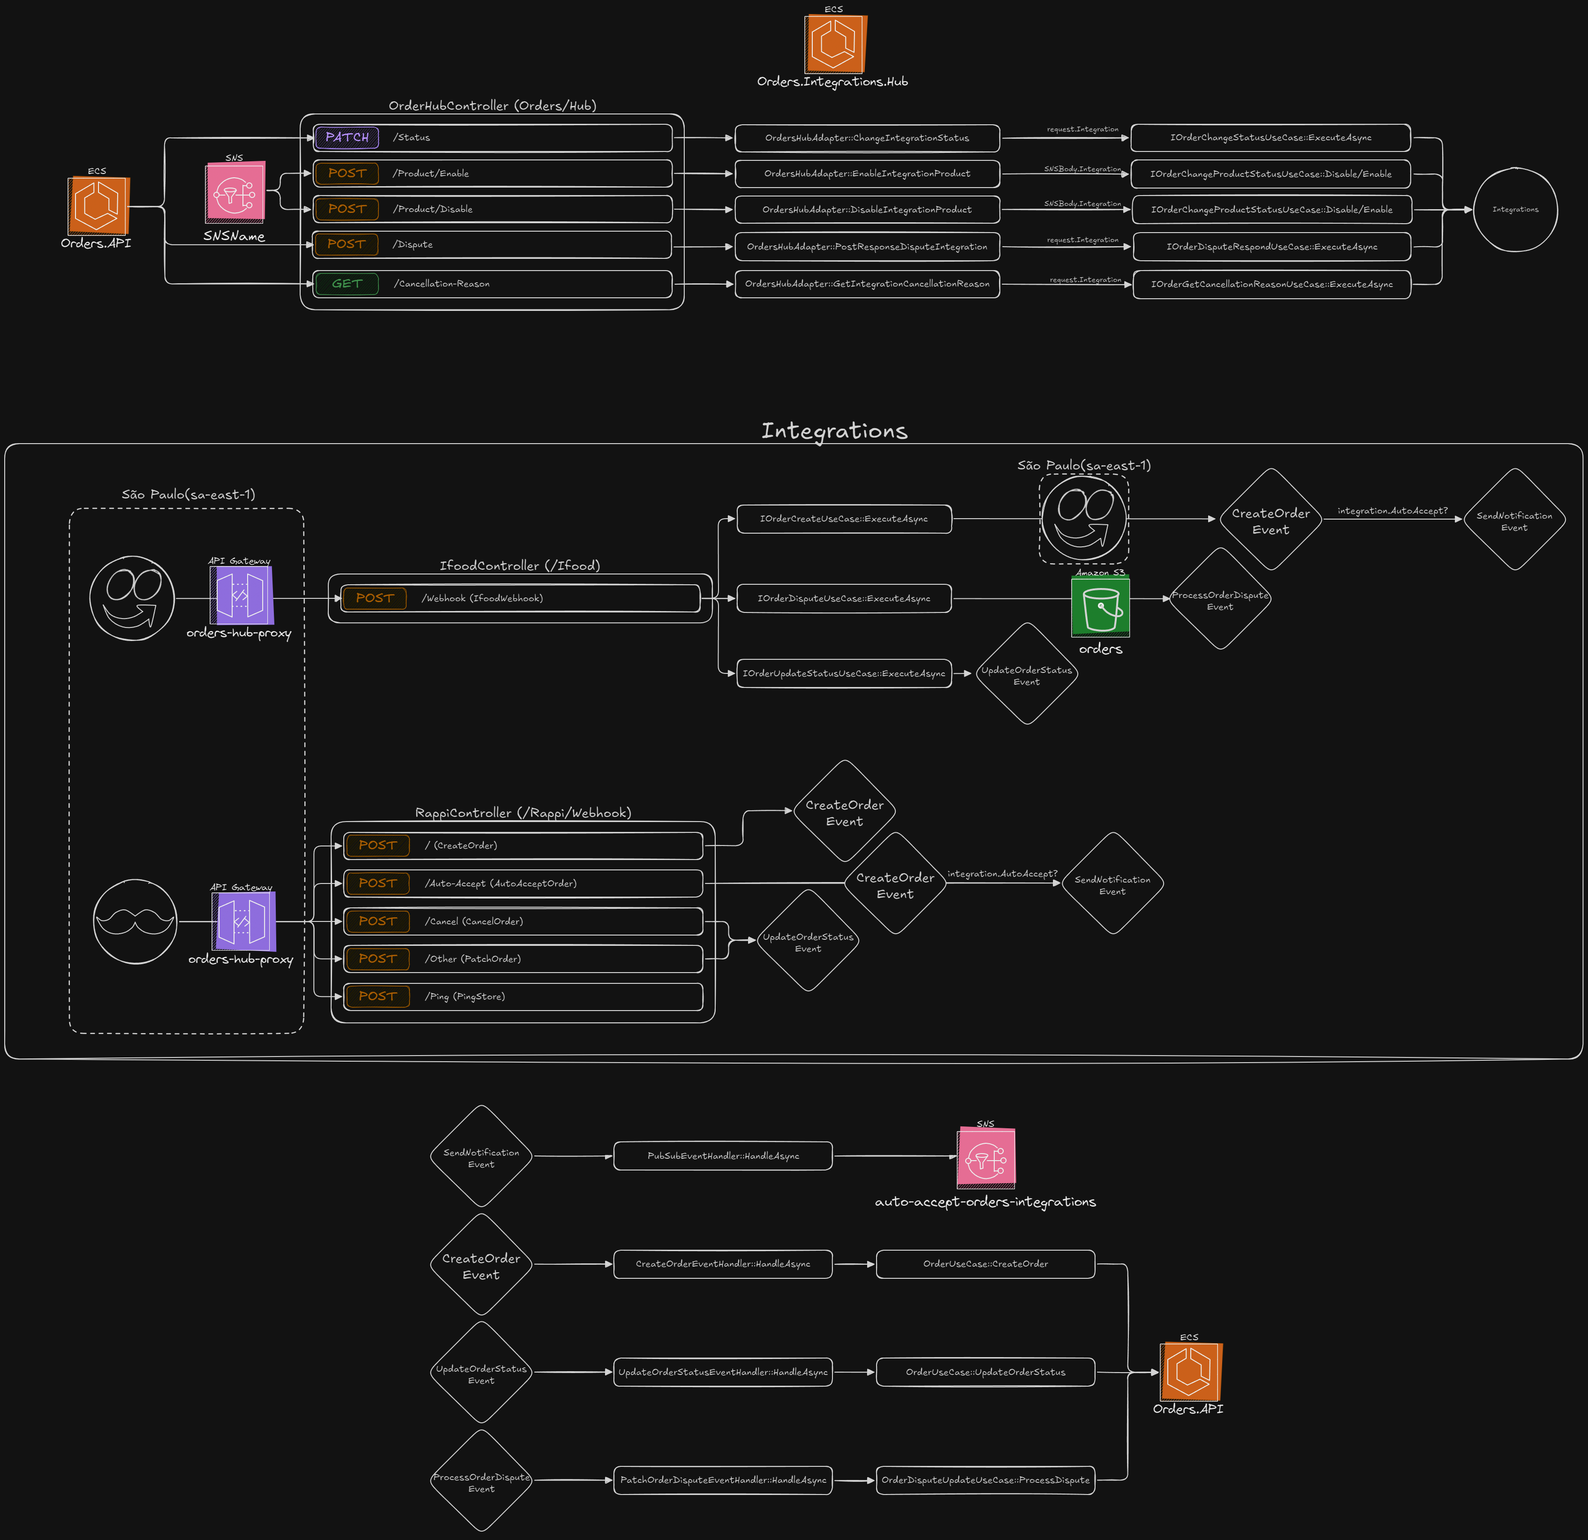
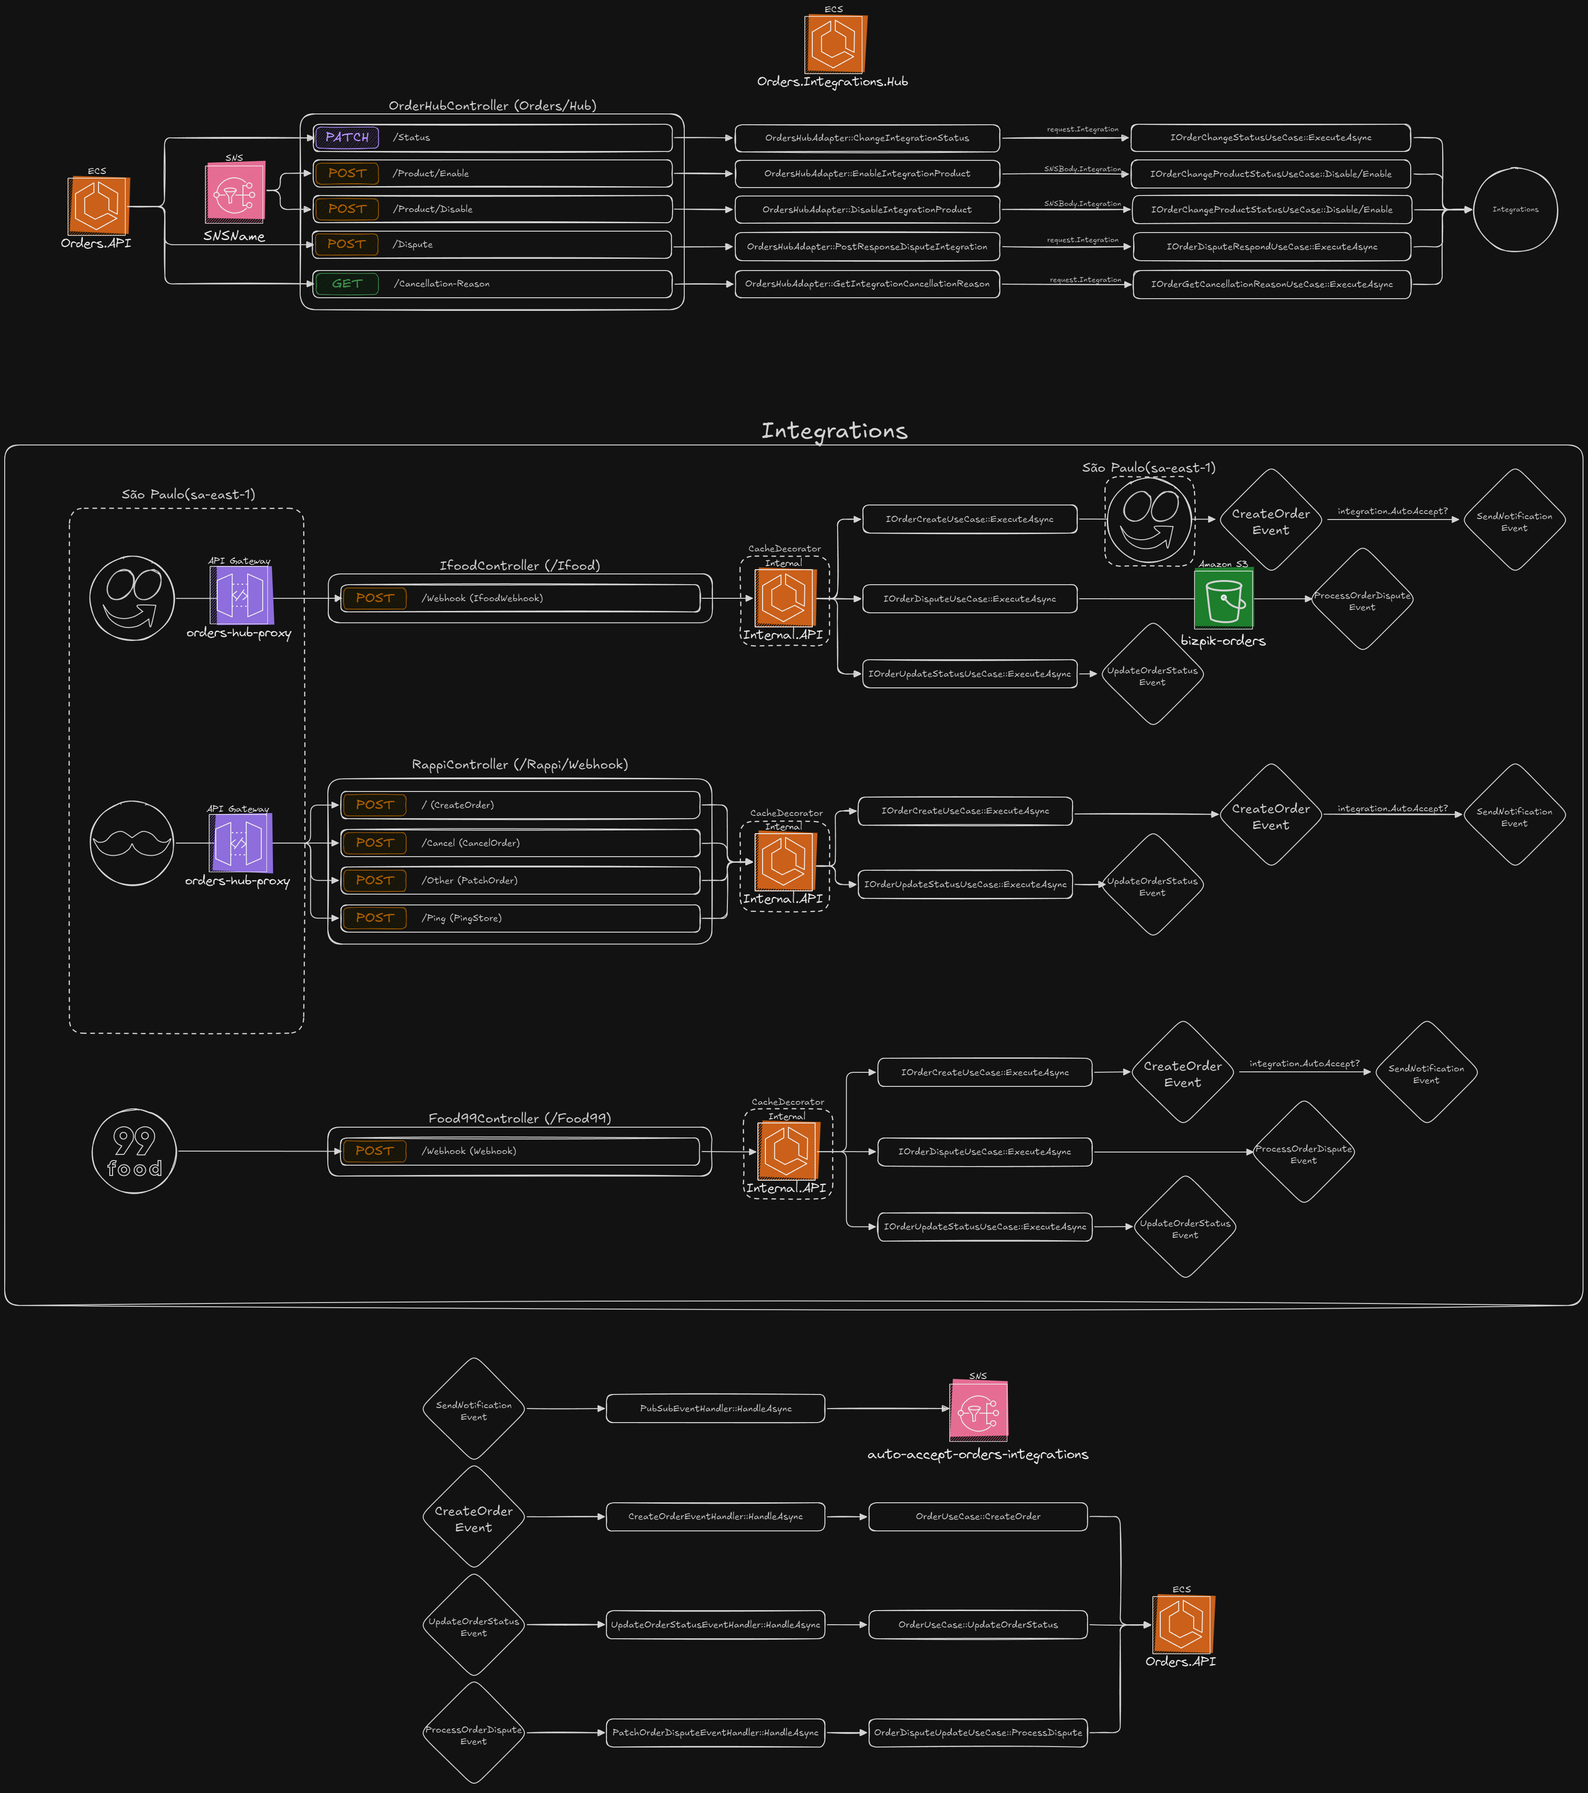
[FEAT] Update docs readme.md and the architecture diagram

diff --git a/README.md b/README.md
@@ -1,25 +1,31 @@
 # Integrations Hub for Orders
 
-**`Orders.Integrations.Hub`** is a modular and extensible integration hub built with **.NET 9**, designed to receive and standardize external orders from platforms like iFood, Rappi, and more. It forwards these orders to an internal system using a clean and decoupled architecture.
+**`Orders.Integrations.Hub`** is a modular and extensible integration hub built with **.NET 9**, designed to receive and 
+standardize external orders from platforms like iFood, Rappi, **99Food**, and more. It forwards these orders to an internal 
+system using a clean and decoupled architecture.
 
 ## 🔗 Summary
 
- - [🔭 Overview](#-overview)
- - [🧩 Architecture Diagram](#-architecture-diagram)
- - [📁 Project Structure](#-project-structure)
- - [🧱 Integration Architecture](#-integration-architecture)
-   - [➕ Adding a New Integration](#-adding-a-new-integration)
- - [🔄 Communication Flow](#-communication-flow)
- - [🧪 Testing](#-testing)
- - [🧪 Observability & Monitoring](#-observability--monitoring)
- - [🧰 Local Development](#-local-development)
-   - [🐳 With Docker Compose](#-with-docker-compose)
-   - [☁ Infrastructure](#-infrastructure)
-   - [🔧 Configuration](#-configuration)
- - [🔧 Tech Stack](#-tech-stack)
- - [🧠 Future Improvements](#-future-improvements)
- - [🤝 Contributing](#-contributing)
- - [📄 License](#-license)
+- [🔭 Overview](#-overview)
+- [🧩 Architecture Diagram](#-architecture-diagram)
+- [📁 Project Structure](#-project-structure)
+- [🧱 Integration Architecture](#-integration-architecture)
+    - [➕ Adding a New Integration](#-adding-a-new-integration)
+    - [🧩 Use Cases Overview](#-use-cases-overview)
+    - [🏪 Multi-Tenant Support](#-multi-tenant-support)
+    - [🏗 Centralized Credentials Mode](#-centralized-credentials-mode)
+    - [🧾 Per-Integration JSON Serialization](#-per-integration-json-serialization)
+- [🔄 Communication Flow](#-communication-flow)
+- [🧪 Testing](#-testing)
+- [🧪 Observability & Monitoring](#-observability--monitoring)
+- [🧰 Local Development](#-local-development)
+    - [🐳 With Docker Compose](#-with-docker-compose)
+    - [☁ Infrastructure](#-infrastructure)
+    - [🔧 Configuration](#-configuration)
+- [🔧 Tech Stack](#-tech-stack)
+- [🧠 Future Improvements](#-future-improvements)
+- [🤝 Contributing](#-contributing)
+- [📄 License](#-license)
 
 ---
 
@@ -27,11 +33,12 @@
 
 This project serves as a central entry point for receiving and processing external orders. It provides:
 
-- 🧱 **Based on Hexagonal Architecture (Ports & Adapters)**
 - 🌐 **Minimal APIs**
 - 📃 **Scalar** (OpenAPI alternative) for documentation
-- 🔄 **Event-driven architecture** for internal communication using **FastEndpoints**
-- 🔌 **Pluggable integrations** (e.g., Rappi, iFood)
+- 🔄 **Event-driven** internal communication using **FastEndpoints**
+- 🔌 **Pluggable integrations** (e.g., Rappi, iFood, **99Food**)
+- 🏪 **Multi-tenant support** (per-merchant credentials via internal API + caching)
+- 🧾 **Custom JSON serialization per integration** (no `JsonPropertyName` attributes)
 - 📦 **Memory and Distributed Caching**
 - 📊 **Observability** with OpenTelemetry
 - ☁ **Infrastructure as Code** with Terraform and LocalStack
@@ -47,16 +54,16 @@ This project serves as a central entry point for receiving and processing extern
 
 Key elements:
 - Inbound integrations via Webhooks or Pulling
-- Each integration (iFood, Rappi, etc.) has isolated flows
+- Each integration (**iFood**, **Rappi**, **99Food**, etc.) has isolated flows
 - Events are created and consumed asynchronously
 - All inbound calls use the `UseCases.In` contracts to reach internal services (e.g., Orders API)
-- All outbound calls use the `UseCases.Out` contracts to reach external services (e.g., Orders API)
+- All outbound calls use the `UseCases.Out` contracts to reach external services (e.g, Integration API)
 
 ---
 
 ## 📁 Project Structure
 
-```
+```text
 Orders.Integrations.Hub/
 ├── Src/
 │   └── Orders.Integrations.Hub/
@@ -65,13 +72,16 @@ Orders.Integrations.Hub/
 │       │   ├── Application/    # Middlewares, Extensions, Use Cases
 │       │   └── Domain/         # Contracts, Entities, Value Objects
 │       │
-│       └── Integrations/       # Modular integrations: Ifood, Rappi, etc.
-│           └── Common/         # Common 
+│       └── Integrations/       # Modular integrations: Ifood, Rappi, 99Food, etc.
+│           ├── Common/         # Shared utilities across integrations
+│           ├── IFood/          # IFood integration
+│           ├── Rappi/          # Rappi integration
+│           └── Food99/         # 99Food integration
 │
 ├── Test/
 │   ├── Orders.Integrations.Hub.UnitTests/
 │   └── Orders.Integrations.Hub.ArchTests/
-│    
+│
 ├── Infra/
 │   └── terraform/              # Infrastructure code using Terraform
 │
@@ -83,37 +93,146 @@ Orders.Integrations.Hub/
 
 ## 🧱 Integration Architecture
 
-Each integration is encapsulated in its own folder and follows its own mini-architecture. This makes it easy to add or evolve integrations independently.
+Each integration is encapsulated in its own folder and follows its own mini-architecture. This makes it easy to add or 
+evolve integrations independently.
 
 ### ➕ Adding a New Integration
-1. Create a folder under `Integrations/[NewPartner]`
-2. Implement the architecture that you prefer
-3. Register dependencies in `[Integration]DependencyInjection.cs`
+1. Create a folder under `Integrations/[NewPartner]`.
+2. Implement the architecture that you prefer (adapters, use cases, clients).
+3. Register dependencies in `[Integration]DependencyInjection.cs`.
+4. (Optional) Provide a custom JSON serializer (see below).
+5. (Optional/Recommended Way) Implement the Use Cases for your integration
+---
+
+### 🧩 Use Cases Overview
+
+⚠ **Note:** All use cases are optional.  
+Implement only the ones supported or required by the partner integration.
+
+| Use Case                            | Direction | When to use                                                                                                |
+|-------------------------------------|-----------|------------------------------------------------------------------------------------------------------------|
+| `IOrderCreateUseCase`               | IN        | Triggered when a new order is received from the integration and must be sent to the core.                  |
+| `IOrderDisputeUseCase`              | IN        | Handles disputes (started/finished) from the integration and forwards them to the core.                    |
+| `IOrderUpdateUseCase`               | IN        | Used when an order changes its status in the integration and the core must be updated.                     |
+| `IOrderChangeProductStatusUseCase`  | OUT       | Used when the core needs to enable/disable products in the partner system (e.g. stock, catalog).           |
+| `IOrderChangeStatusUseCase`         | OUT       | Sends status changes made by the merchant in the core to the integration (e.g. confirm, preparing, cancel).|
+| `IOrderDisputeRespondUseCase`       | OUT       | Sends the merchant’s response to a dispute back to the integration.                                        |
+| `IOrderGetCancellationReasonUseCase`| OUT       | Retrieves cancellation reasons supported by the integration (via API or enums).                            |
+
+📌 **Summary**
+- **IN** → Events coming **from the integration into the Hub** (orders, disputes, updates).
+- **OUT** → Events going **from the Hub to the integration** (status changes, catalog updates, disputes, cancellations).
+
+### 🏪 Multi-Tenant Support
+
+Some platforms (like **iFood**, **Rappi**, **99Food**) require **per-merchant credentials** (ClientId, ClientSecret, 
+StoreId/MerchantId, etc.).  
+This hub supports **multi-tenancy** through a scoped `IntegrationContext`:
+
+- Each HTTP request creates its own **scoped `IntegrationContext`**.
+- The context fetches integration metadata (client credentials, merchant/store identifiers, base URLs, etc.) from an **internal API**.
+- A **cache decorator** prevents fetching on every request.
+
+**Example (iFood):**
+```csharp
+integrationContext.Integration = (await internalClient.GetIntegrationByExternalId(request.MerchantId)).ResolveIFood();
+
+integrationContext.MerchantId = request.MerchantId;
+
+string secret = integrationContext.Integration.ClientSecret;
+```
+
+This lets the hub adapt dynamically per merchant instead of relying on static environment variables.
+
+---
+
+### 🏗 Centralized Credentials Mode
+
+Not all partners require per-merchant credentials, or you have a centralizer. For those cases, you can **remove the 
+`IntegrationContext` dependency** for that integration and bind credentials via environment variables.
+
+**How to switch an integration to centralized mode:**
+
+1. **Remove context usage**: Stop injecting/using `IntegrationContext` in that integration’s handlers/clients.
+2. **Bind env vars**: Configure static credentials in `.env` and map them to typed options:
+   ```ini
+   INTEGRATIONS__PARTNER__CLIENT__ID=your-client-id
+   INTEGRATIONS__PARTNER__CLIENT__SECRET=your-client-secret
+   INTEGRATIONS__PARTNER__ENDPOINT__BASE_URL=https://api.partner.com
+   ```
+3. **Register options & client**: Inject the options directly into the integration services (no lookup/caching required).
+4. **Validate at startup**: Fail fast if required keys are missing when centralized mode is chosen.
+
+> ✅ Use **multi-tenant** when each merchant has its own credentials.  
+> ✅ Use **centralized** when one credential set is shared across all merchants.
+
+---
+
+### 🧾 Per-Integration JSON Serialization
+
+Each integration owns a **custom JSON serializer** (for request/response models), injected via DI using **keyed services**:
+
+Implement the interface `ICustomJsonSerializer` for the integration that you want with all configurations
+
+```csharp
+public class RappiJsonSerializer : ICustomJsonSerializer
+{
+    private static readonly JsonSerializerOptions Options = new() {
+        PropertyNamingPolicy = JsonNamingPolicy.SnakeCaseLower,
+        DictionaryKeyPolicy = JsonNamingPolicy.SnakeCaseLower,
+        PropertyNameCaseInsensitive = true,
+        Converters = { new JsonStringEnumConverter(JsonNamingPolicy.SnakeCaseUpper) }
+    };
+
+    public string Serialize<T>(T value) => JsonSerializer.Serialize(value, Options);
+
+    public T? Deserialize<T>(string value) => JsonSerializer.Deserialize<T>(value, Options);
+}
+```
+
+Then in the DI you just need to add the service now with the integration key
+
+```csharp
+services.AddKeyedSingleton<ICustomJsonSerializer, RappiJsonSerializer>(OrderIntegration.RAPPI);
+```
+
+Now just use it in your integration
+
+```csharp
+public IResult Handle(
+    [FromKeyedServices(OrderIntegration.RAPPI)] ICustomJsonSerializer jsonSerializer,
+    /* other deps */
+) {
+    // Use the serializer to parse/format payloads for this integration
+}
+```
+
+This decouples payload shapes per partner and avoids leaking partner-specific casing/naming into shared domain models.
 
 ---
 
 ## 🔄 Communication Flow
 
-- External platforms (iFood, Rappi, etc.) receive data via webhooks or pulling
-- Requests hit the corresponding controller or endpoint (e.g., `IfoodController`)
-- Adapter translates the request into internal format
-- UseCases send orders via the `UseCases.Out` contracts to the internal Orders system
-- Events are dispatched using `Core.Domain.ValueObjects.Events`
+- External platforms (**iFood**, **Rappi**, **99Food**, etc.) send data via webhooks or pulling.
+- Requests hit the corresponding endpoint/controller (e.g., `IfoodController`).
+- Adapter translates the request into the internal format.
+- Use cases send orders via the `UseCases.Out` contracts to the internal Orders system.
+- Events are dispatched using `Core.Domain.ValueObjects.Events`.
 
 ---
 
 ## 🧪 Testing
 
-- ✅ **Unit Tests** for application logic
-- 🧱 **Architecture Tests** using ArchUnit.NET to enforce domain boundaries and modularity
+- ✅ **Unit Tests** for application logic.
+- 🧱 **Architecture Tests** using ArchUnit.NET to enforce domain boundaries and modularity.
 
 ---
 
 ## 🧪 Observability & Monitoring
 
-- **OpenTelemetry**: Tracing, logging, and metrics
-- **Grafana**: Dashboards to visualize telemetry data
-- **Aspire**: For service discovery and metrics aggregation
+- **OpenTelemetry**: Tracing, logging, and metrics.
+- **Grafana**: Dashboards to visualize telemetry data.
+- **Aspire**: Service discovery and metrics aggregation.
 
 ---
 
@@ -147,24 +266,31 @@ Provisioned modules:
 
 ### 🔧 Configuration
 
-To configure the environment, copy the `.env.example` to `.env` file and fill in the required values:
+Copy the example env file and fill in the required values:
 
 ```bash
 cp .env.example .env
 ```
 
 #### 🔑 Environment Variables Overview
-| Category   | Variables                                                                          |
-|------------|------------------------------------------------------------------------------------|
-| Internal   | 	ORDERS__ENDPOINT__BASE_URL — Internal Orders API endpoint                         | 
-| IFood	     |  INTEGRATIONS__IFOOD__CLIENT__ID, CLIENT__SECRET, ENDPOINT__BASE_URL, CACHE__KEY   | 
-| Rappi	     |  INTEGRATIONS__RAPPI__CLIENT__ID, SECRET, AUDIENCE, ENDPOINT__BASE_URL, etc.       | 
-| Cache	     |  MEMCACHED__ADDRESS, MEMCACHED__PORT                                               | 
-| Pub/Sub    | 	PUB_SUB__TOPICS__ACCEPT_ORDER, IS_LOCAL                                           | 
-| Storage    | 	OBJECT_STORAGE__BUCKET__NAME                                                      | 
-| LocalStack | 	LOCALSTACK__AWS__IS_LOCALSTACK, ENDPOINT_URL                                      | 
-| AWS        | 	AWS_PROFILE, AWS_REGION                                                           | 
-| Telemetry  | 	OTEL_SERVICE_NAME, OTEL_EXPORTER_OTLP_ENDPOINT                                    | 
+
+> The exact keys used depend on whether an integration is **multi-tenant** or **centralized**.  
+> Multi-tenant integrations fetch credentials from the internal API (and mostly need base URLs + cache keys).  
+> Centralized integrations read credentials directly from env vars.
+
+| Category   | Variables (examples)                                                                                                                                                                                |
+|------------|-----------------------------------------------------------------------------------------------------------------------------------------------------------------------------------------------------|
+| Internal   | `ORDERS__ENDPOINT__BASE_URL` — Internal Orders API endpoint                                                                                                                                         |
+| Internal   | `INTERNAL__ENDPOINT__BASE_URL` — Internal API endpoint                                                                                                                                              |
+| iFood      | `INTEGRATIONS__IFOOD__ENDPOINT__BASE_URL`, `INTEGRATIONS__IFOOD__CACHE__KEY`, <br>`INTEGRATIONS__IFOOD__CLIENT__ID`, `INTEGRATIONS__IFOOD__CLIENT__SECRET` *(centralized)*                          |
+| Rappi      | `INTEGRATIONS__RAPPI__ENDPOINT__BASE_URL`, `INTEGRATIONS__RAPPI__CACHE__KEY`, <br>`INTEGRATIONS__RAPPI__CLIENT__ID`, `INTEGRATIONS__RAPPI__SECRET`, `INTEGRATIONS__RAPPI__AUDIENCE` *(centralized)* |
+| 99Food     | `INTEGRATIONS__FOOD99__ENDPOINT__BASE_URL`, `INTEGRATIONS__FOOD99__CACHE__KEY`, <br>`INTEGRATIONS__FOOD99__CLIENT__ID`, `INTEGRATIONS__FOOD99__CLIENT__SECRET` *(centralized)*                      |
+| Cache      | `MEMCACHED__ADDRESS`, `MEMCACHED__PORT` *(Distributed Cache)*                                                                                                                                       |
+| Pub/Sub    | `PUB_SUB__TOPICS__ACCEPT_ORDER`, `PUB_SUB__IS_LOCAL`                                                                                                                                                |
+| Storage    | `OBJECT_STORAGE__BUCKET__NAME`                                                                                                                                                                      |
+| LocalStack | `LOCALSTACK__AWS__IS_LOCALSTACK`, `LOCALSTACK__ENDPOINT_URL`                                                                                                                                        |
+| AWS        | `AWS_PROFILE`, `AWS_REGION`                                                                                                                                                                         |
+| Telemetry  | `OTEL_SERVICE_NAME`, `OTEL_EXPORTER_OTLP_ENDPOINT`                                                                                                                                                  |
 
 📁 For local development, most values can be left blank or set to local/test equivalents.
 
@@ -178,6 +304,8 @@ cp .env.example .env
 | Architecture        | Hexagonal (Ports & Adapters) |
 | Docs                | Scalar                       |
 | Caching             | Memory + Distributed Cache   |
+| Multi-Tenancy       | IntegrationContext + Cache   |
+| JSON Serialization  | Per-integration serializers  |
 | Events              | FastEndpoints.Events         |
 | Tracing/Telemetry   | OpenTelemetry                |
 | Monitoring          | Grafana, Aspire              |
@@ -189,12 +317,11 @@ cp .env.example .env
 
 ## 🧠 Future Improvements
 
-- Implement Architecture testing for the Core
-- Implement Architecture testing for each integration
-- Create Unit testing
-- Create Integration tests
-- Add queue-based backpressure handling
-- Integration SDK Generator from Core contracts
+- Architecture testing for **Core** and **each integration**.
+- Backpressure with queue-based ingestion.
+- Expand Integration SDK Generator from Core contracts.
+- Improve observability dashboards per integration.
+- Add integration tests.
 
 ---
 
